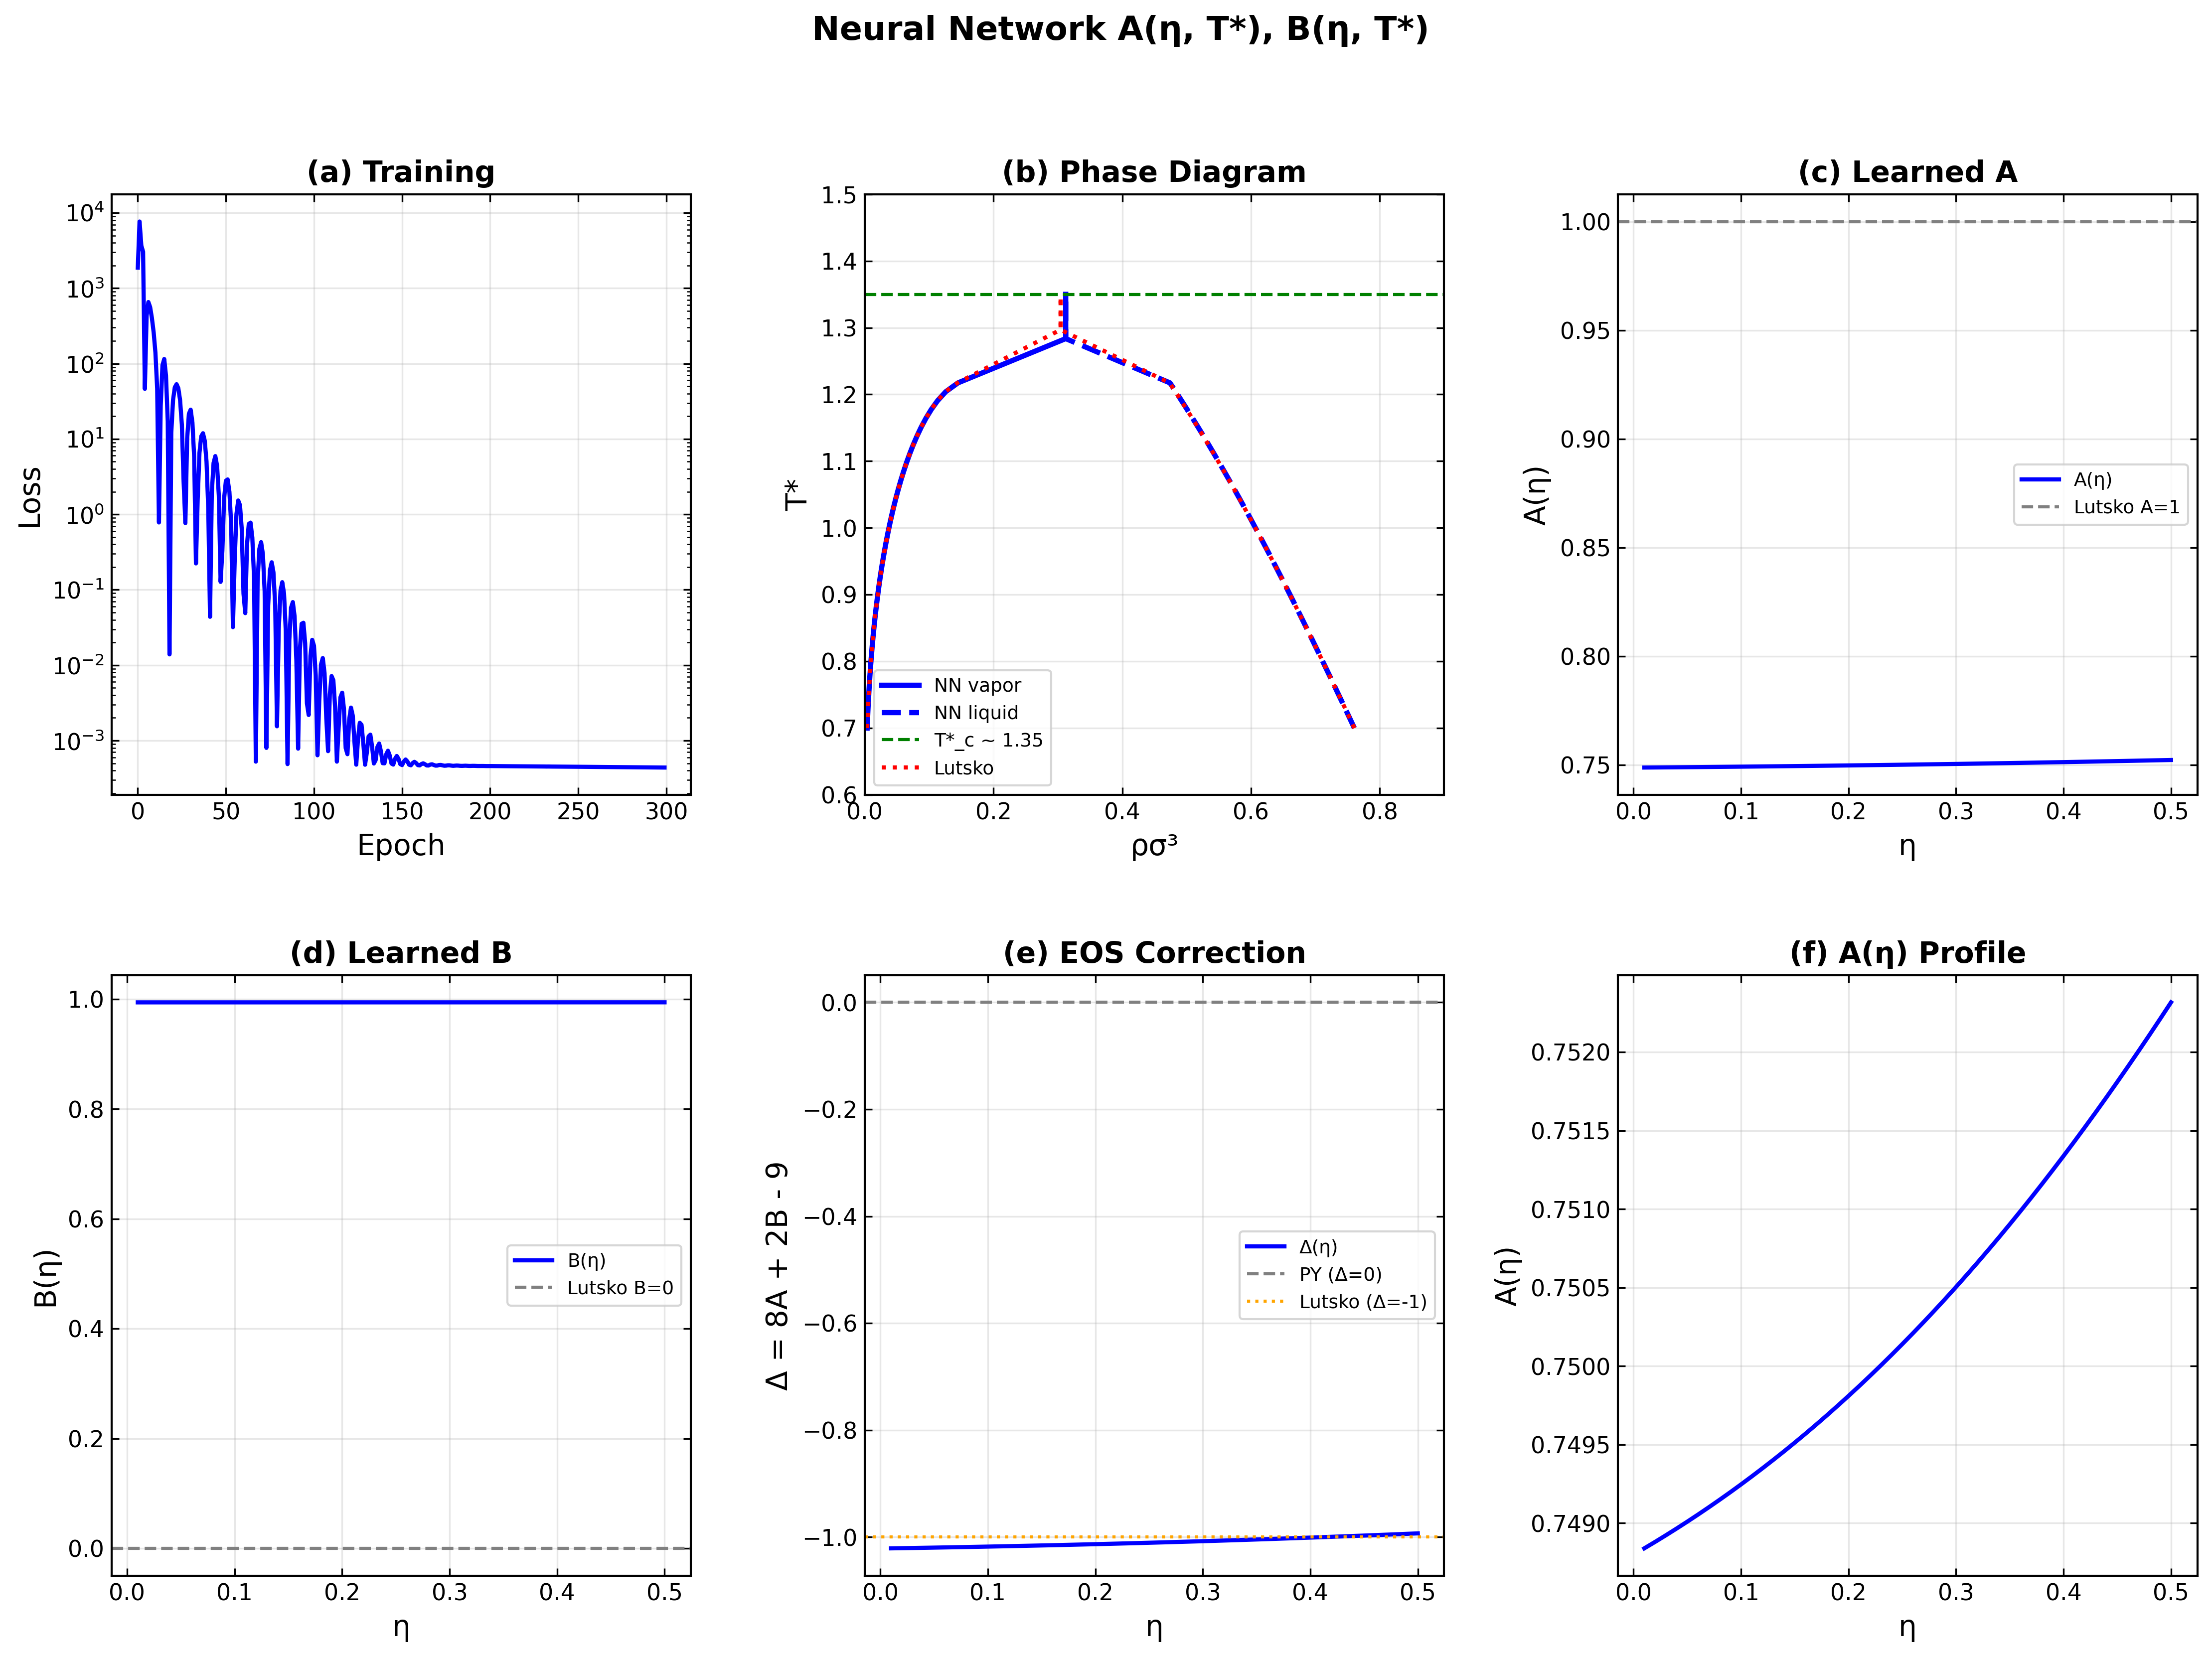
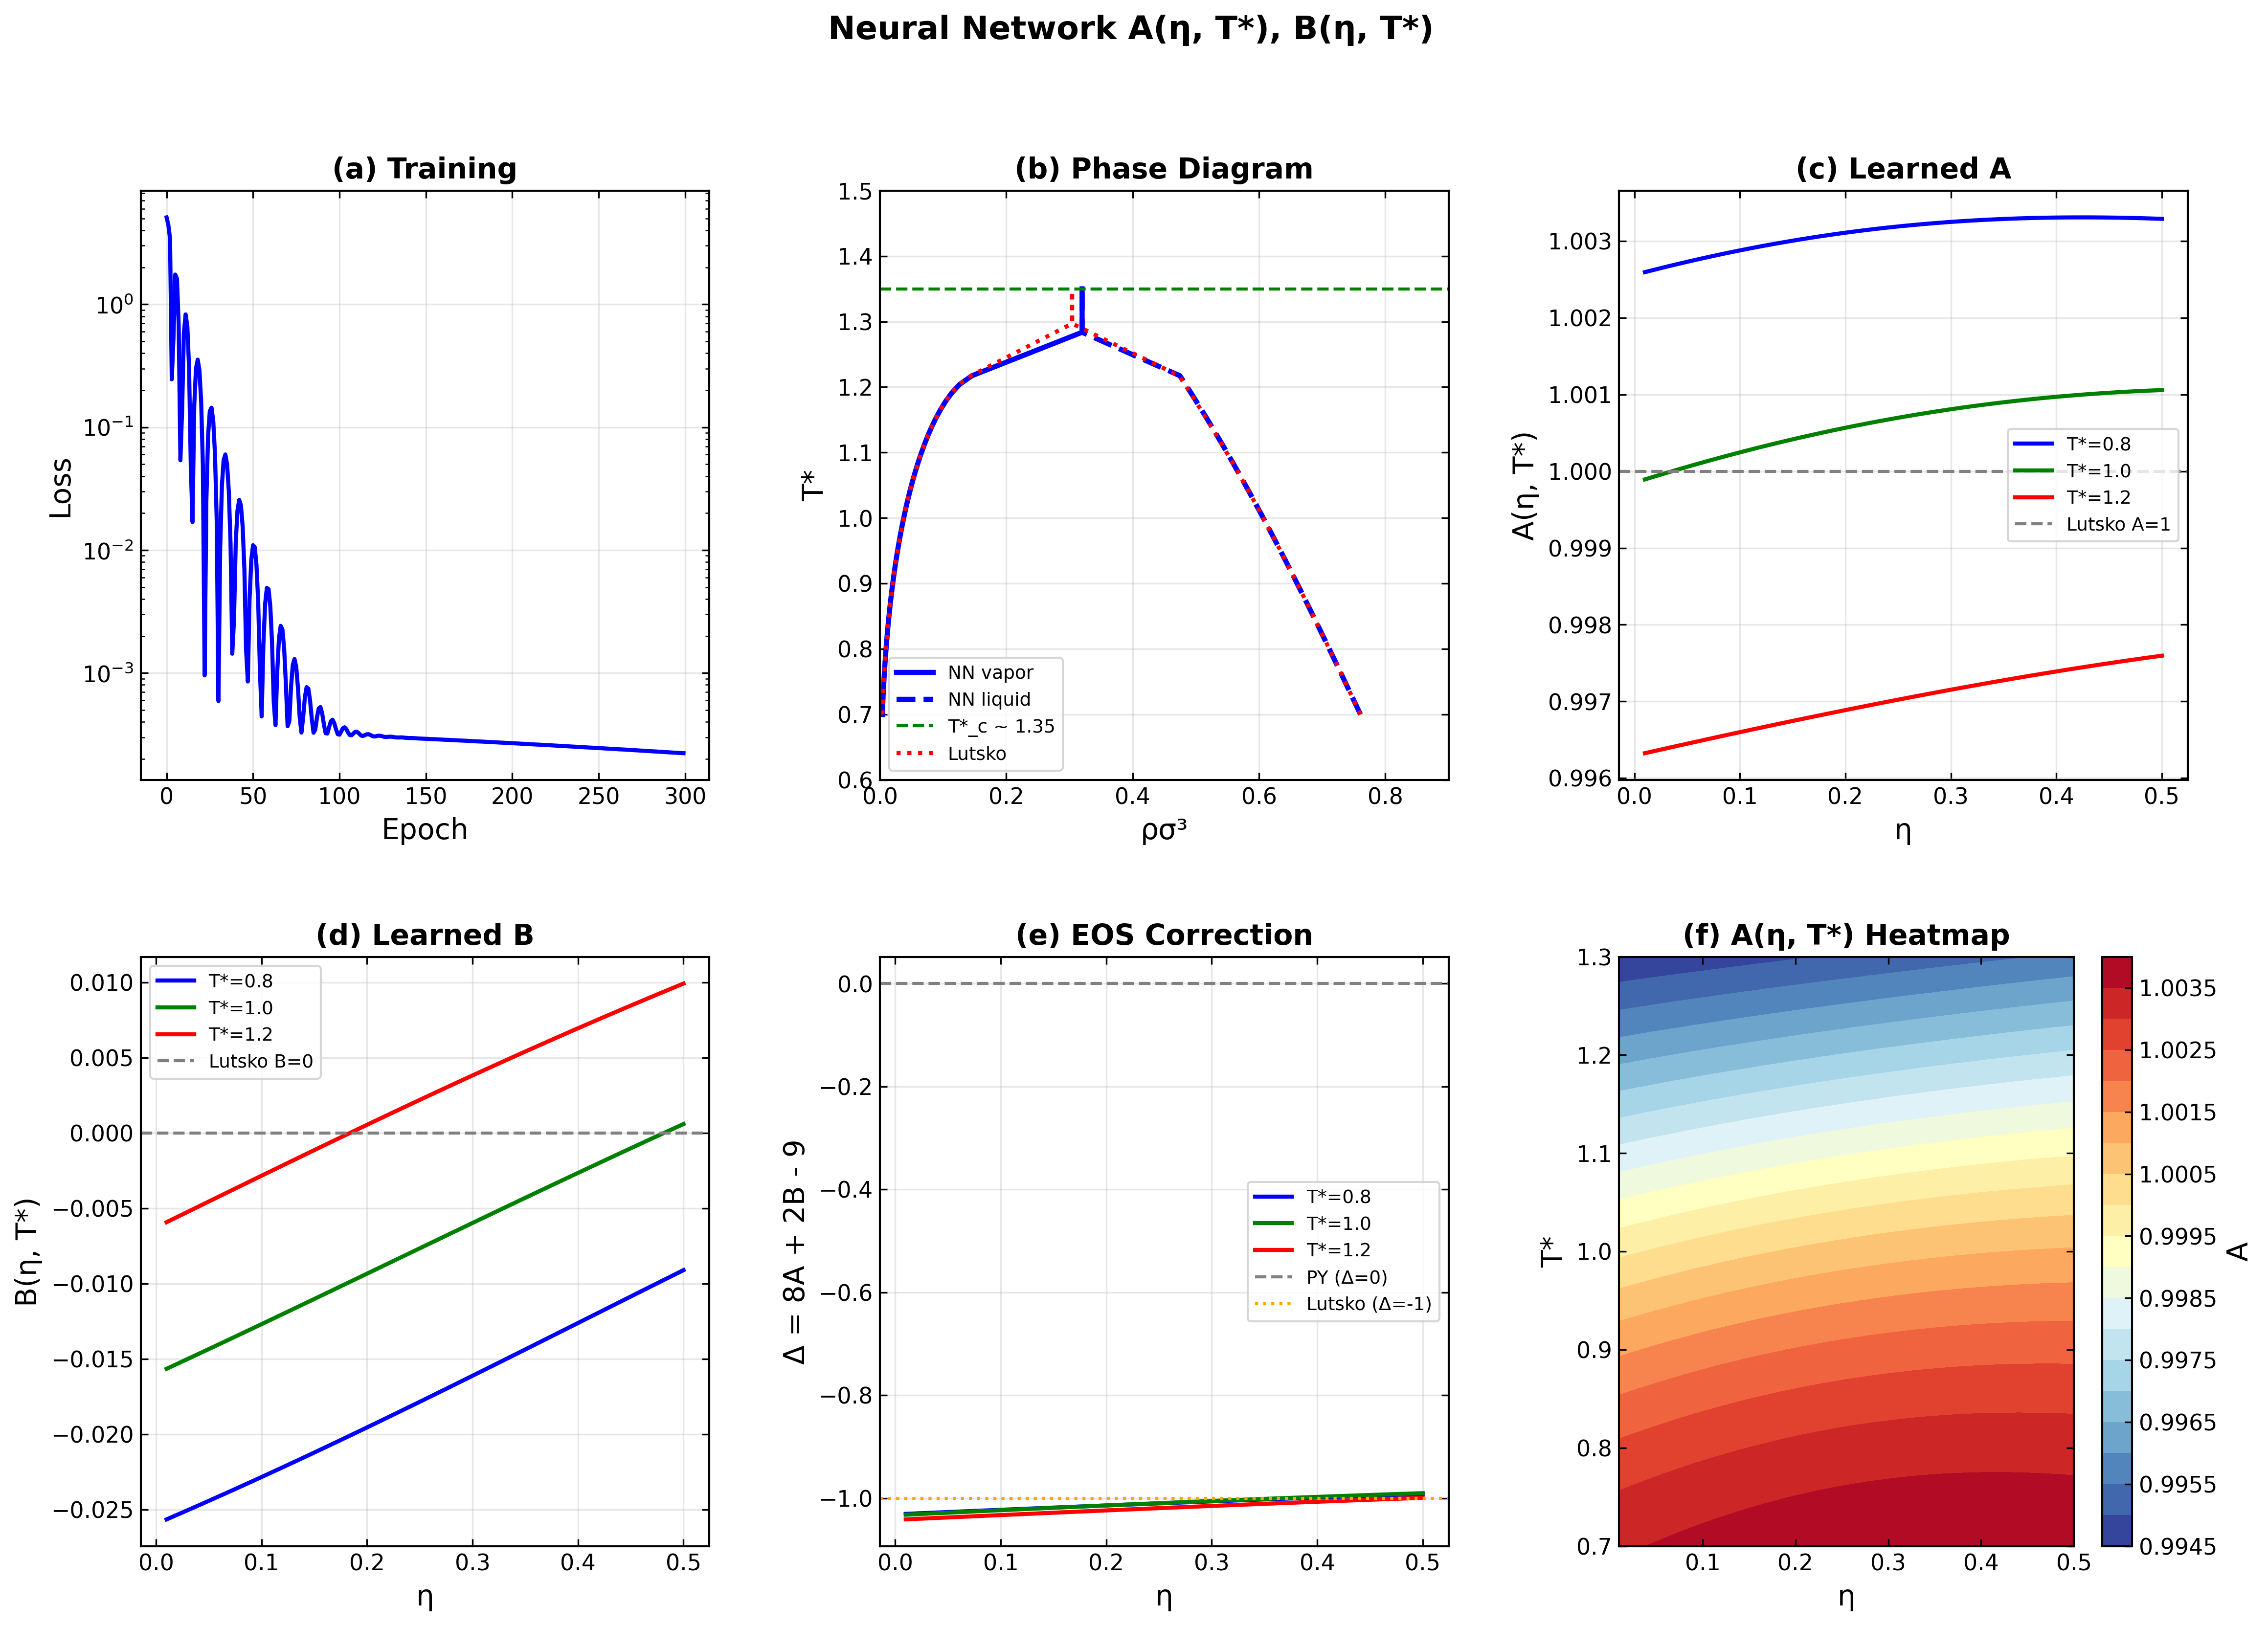
Restore ABNetwork(eta, T*) for LJ phase diagram and regenerate figure
Replaced ConditionalNetwork(eta) with the original 2-input ABNetwork
that takes both packing fraction eta and reduced temperature T* as inputs.
This restores the correct multi-temperature panels (c)-(f):
- Panels (c,d): A(eta,T*) and B(eta,T*) curves at T*=0.8,1.0,1.2
- Panel (e): EOS correction Delta=8A+2B-9 at three temperatures
- Panel (f): contourf heatmap of A(eta,T*) on full state space

Consistent with paper text: A and B deviate <1% from Lutsko baseline
(A=1, B=0) and Delta stays near -1, confirming bulk phase equilibria
alone cannot drive nontrivial density dependence.

diff --git a/lj/phase_diagram.py b/lj/phase_diagram.py
@@ -168,7 +168,7 @@ class UniformLJFluid:
     
     def get_AB(self, eta):
         if self.nn is not None:
-            A, B = self.nn.from_eta(float(eta))
+            A, B = self.nn(float(eta), float(self.T_star))
             return float(A), float(B)
         return self.A_fixed, self.B_fixed
     
@@ -292,7 +292,26 @@ class LJPhaseDiagram:
 # NEURAL NETWORK
 # =============================================================================
 
-from neural.network import ConditionalNetwork
+class ABNetwork(eqx.Module):
+    """2-input network: (η, T*) → (A, B)."""
+    layers: list
+
+    def __init__(self, hidden=[32, 32], key=None):
+        if key is None:
+            key = jax.random.PRNGKey(42)
+        keys = jax.random.split(key, len(hidden) + 1)
+        dims = [2] + hidden + [2]
+        self.layers = [eqx.nn.Linear(d_in, d_out, key=k)
+                       for d_in, d_out, k in zip(dims[:-1], dims[1:], keys)]
+
+    def __call__(self, eta, T_star):
+        x = jnp.array([eta / 0.5, (T_star - 1.0) / 0.3])
+        for layer in self.layers[:-1]:
+            x = jnp.tanh(layer(x))
+        out = self.layers[-1](x)
+        A = 0.8 + 0.4 * jax.nn.sigmoid(out[0])   # A ∈ [0.8, 1.2]
+        B = -0.2 + 0.4 * jax.nn.sigmoid(out[1])   # B ∈ [-0.2, 0.2]
+        return A, B
 
 
 def train_nn(network, potential, ref_coex, n_epochs=300, lr=0.01):
@@ -323,8 +342,8 @@ def train_nn(network, potential, ref_coex, n_epochs=300, lr=0.01):
         eta_v = (PI / 6) * rv * d_T**3
         eta_l = (PI / 6) * rl * d_T**3
         
-        A_v, B_v = net.from_eta(eta_v)
-        A_l, B_l = net.from_eta(eta_l)
+        A_v, B_v = net(eta_v, T)
+        A_l, B_l = net(eta_l, T)
         
         mu_v = jnp.log(rv * sigma**3) + mu_ex_lutsko(eta_v, A_v, B_v) + a * rv / kT
         mu_l = jnp.log(rl * sigma**3) + mu_ex_lutsko(eta_l, A_l, B_l) + a * rl / kT
@@ -499,28 +518,32 @@ def plot_nn(network, losses, potential, ref_coex):
     eta_range = np.linspace(0.01, 0.5, 100)
     
     ax = fig.add_subplot(gs[0, 2])
-    A_vals = [float(network.from_eta(e)[0]) for e in eta_range]
-    ax.plot(eta_range, A_vals, color='blue', lw=2, label='A(η)')
+    for T, c in [(0.8, 'blue'), (1.0, 'green'), (1.2, 'red')]:
+        ax.plot(eta_range, [float(network(e, T)[0]) for e in eta_range],
+                color=c, lw=2, label=f'T*={T}')
     ax.axhline(1.0, color='gray', ls='--', lw=1.5, label='Lutsko A=1')
     ax.set_xlabel('η')
-    ax.set_ylabel('A(η)')
+    ax.set_ylabel('A(η, T*)')
     ax.set_title('(c) Learned A', fontweight='bold')
     ax.legend(fontsize=9)
     ax.grid(True, alpha=0.3)
 
     ax = fig.add_subplot(gs[1, 0])
-    B_vals = [float(network.from_eta(e)[1]) for e in eta_range]
-    ax.plot(eta_range, B_vals, color='blue', lw=2, label='B(η)')
+    for T, c in [(0.8, 'blue'), (1.0, 'green'), (1.2, 'red')]:
+        ax.plot(eta_range, [float(network(e, T)[1]) for e in eta_range],
+                color=c, lw=2, label=f'T*={T}')
     ax.axhline(0.0, color='gray', ls='--', lw=1.5, label='Lutsko B=0')
     ax.set_xlabel('η')
-    ax.set_ylabel('B(η)')
+    ax.set_ylabel('B(η, T*)')
     ax.set_title('(d) Learned B', fontweight='bold')
     ax.legend(fontsize=9)
     ax.grid(True, alpha=0.3)
 
     ax = fig.add_subplot(gs[1, 1])
-    D = [8*float(network.from_eta(e)[0]) + 2*float(network.from_eta(e)[1]) - 9 for e in eta_range]
-    ax.plot(eta_range, D, color='blue', lw=2, label='Δ(η)')
+    for T, c in [(0.8, 'blue'), (1.0, 'green'), (1.2, 'red')]:
+        D = [8*float(network(e, T)[0]) + 2*float(network(e, T)[1]) - 9
+             for e in eta_range]
+        ax.plot(eta_range, D, color=c, lw=2, label=f'T*={T}')
     ax.axhline(0, color='gray', ls='--', lw=1.5, label='PY (Δ=0)')
     ax.axhline(-1, color='orange', ls=':', lw=1.5, label='Lutsko (Δ=-1)')
     ax.set_xlabel('η')
@@ -531,12 +554,13 @@ def plot_nn(network, losses, potential, ref_coex):
 
     ax = fig.add_subplot(gs[1, 2])
     eta_g = np.linspace(0.01, 0.5, 50)
-    A_g = np.array([float(network.from_eta(e)[0]) for e in eta_g])
-    ax.plot(eta_g, A_g, 'b-', lw=2)
+    T_g   = np.linspace(0.7, 1.3, 50)
+    A_g = np.array([[float(network(e, t)[0]) for e in eta_g] for t in T_g])
+    cs = ax.contourf(eta_g, T_g, A_g, levels=20, cmap='RdYlBu_r')
+    plt.colorbar(cs, ax=ax, label='A')
     ax.set_xlabel('η')
-    ax.set_ylabel('A(η)')
-    ax.set_title('(f) A(η) Profile', fontweight='bold')
-    ax.grid(True, alpha=0.3)
+    ax.set_ylabel('T*')
+    ax.set_title('(f) A(η, T*) Heatmap', fontweight='bold')
     
     plt.suptitle('Neural Network A(η, T*), B(η, T*)', fontsize=16, fontweight='bold')
     plt.savefig(OUTPUT_DIR / 'lj_phase_diagram_nn.png', dpi=300, bbox_inches='tight')
@@ -574,7 +598,7 @@ def main():
     
     # NN training
     print("\n--- Neural Network ---")
-    network = ConditionalNetwork(jax.random.PRNGKey(42))
+    network = ABNetwork(hidden=[32, 32], key=jax.random.PRNGKey(42))
     network, losses = train_nn(network, potential, coex, n_epochs=300, lr=0.01)
     plot_nn(network, losses, potential, coex)
     